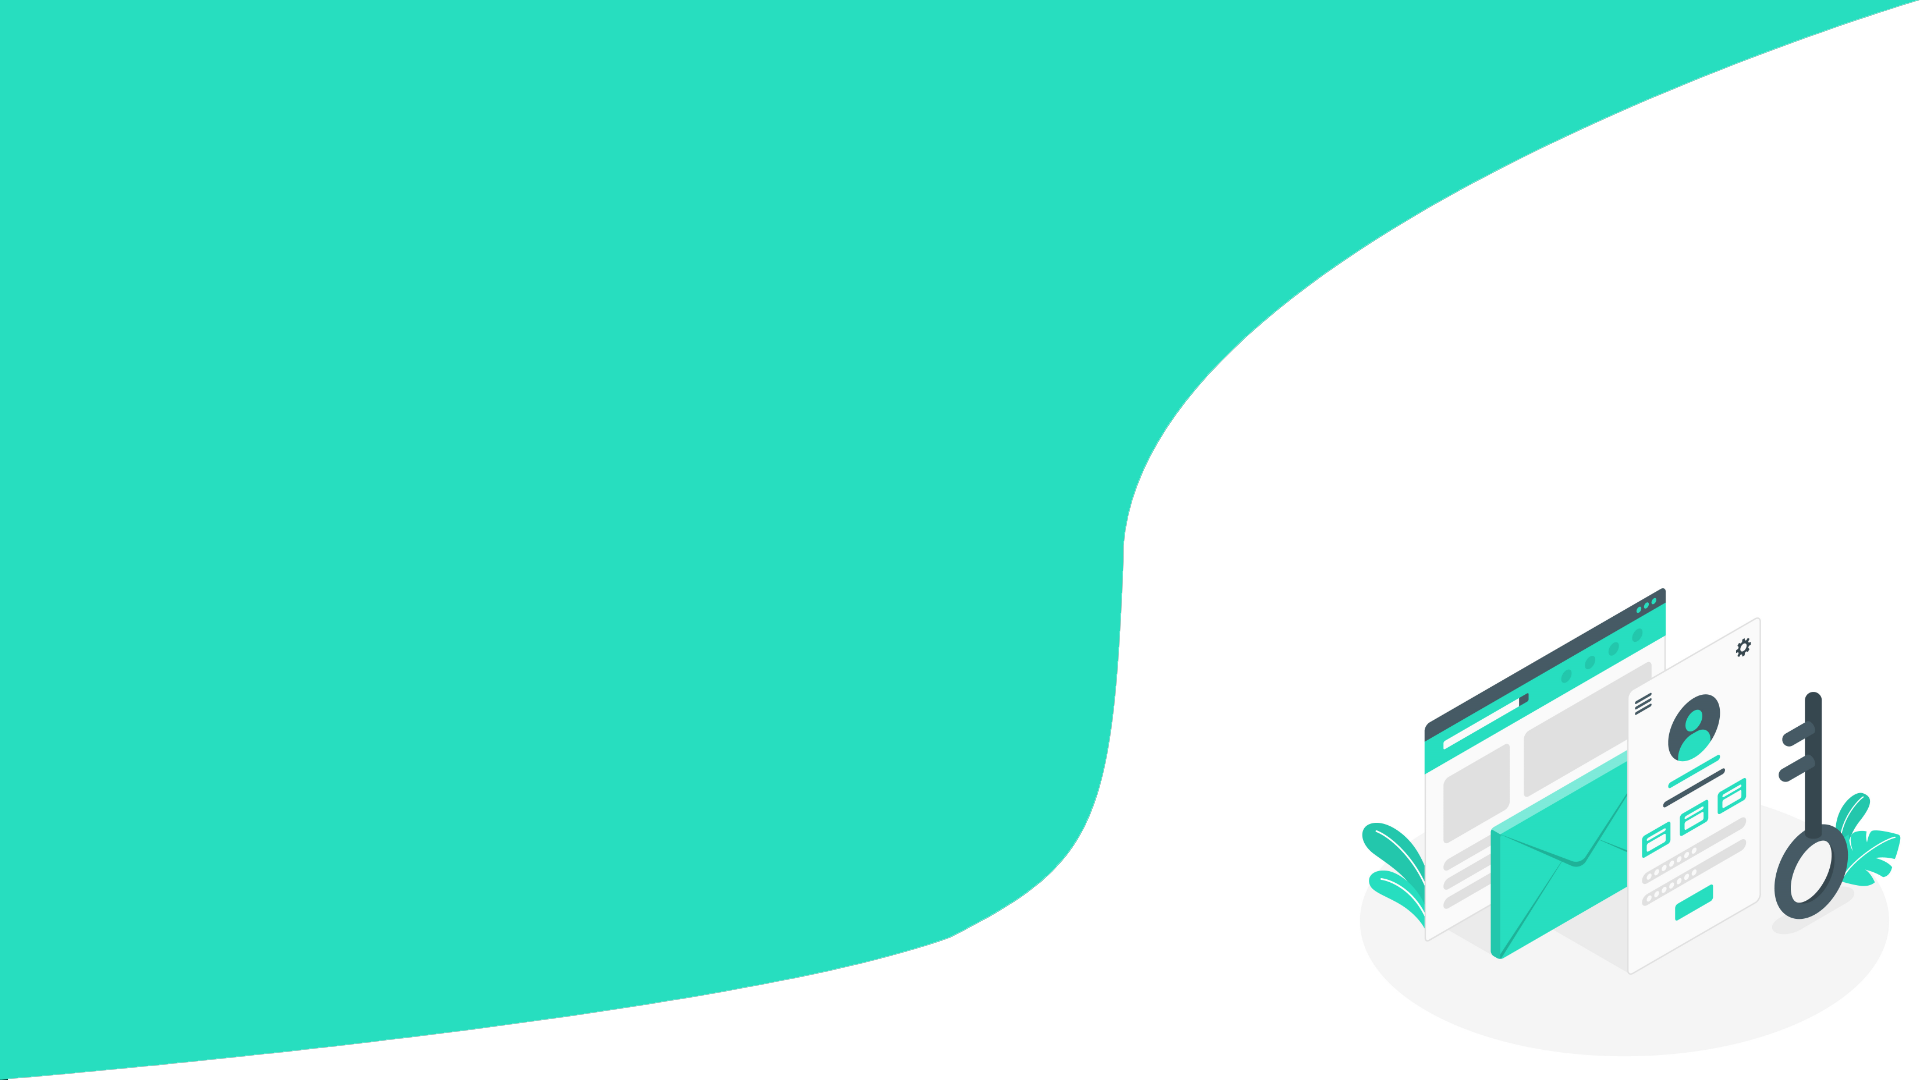
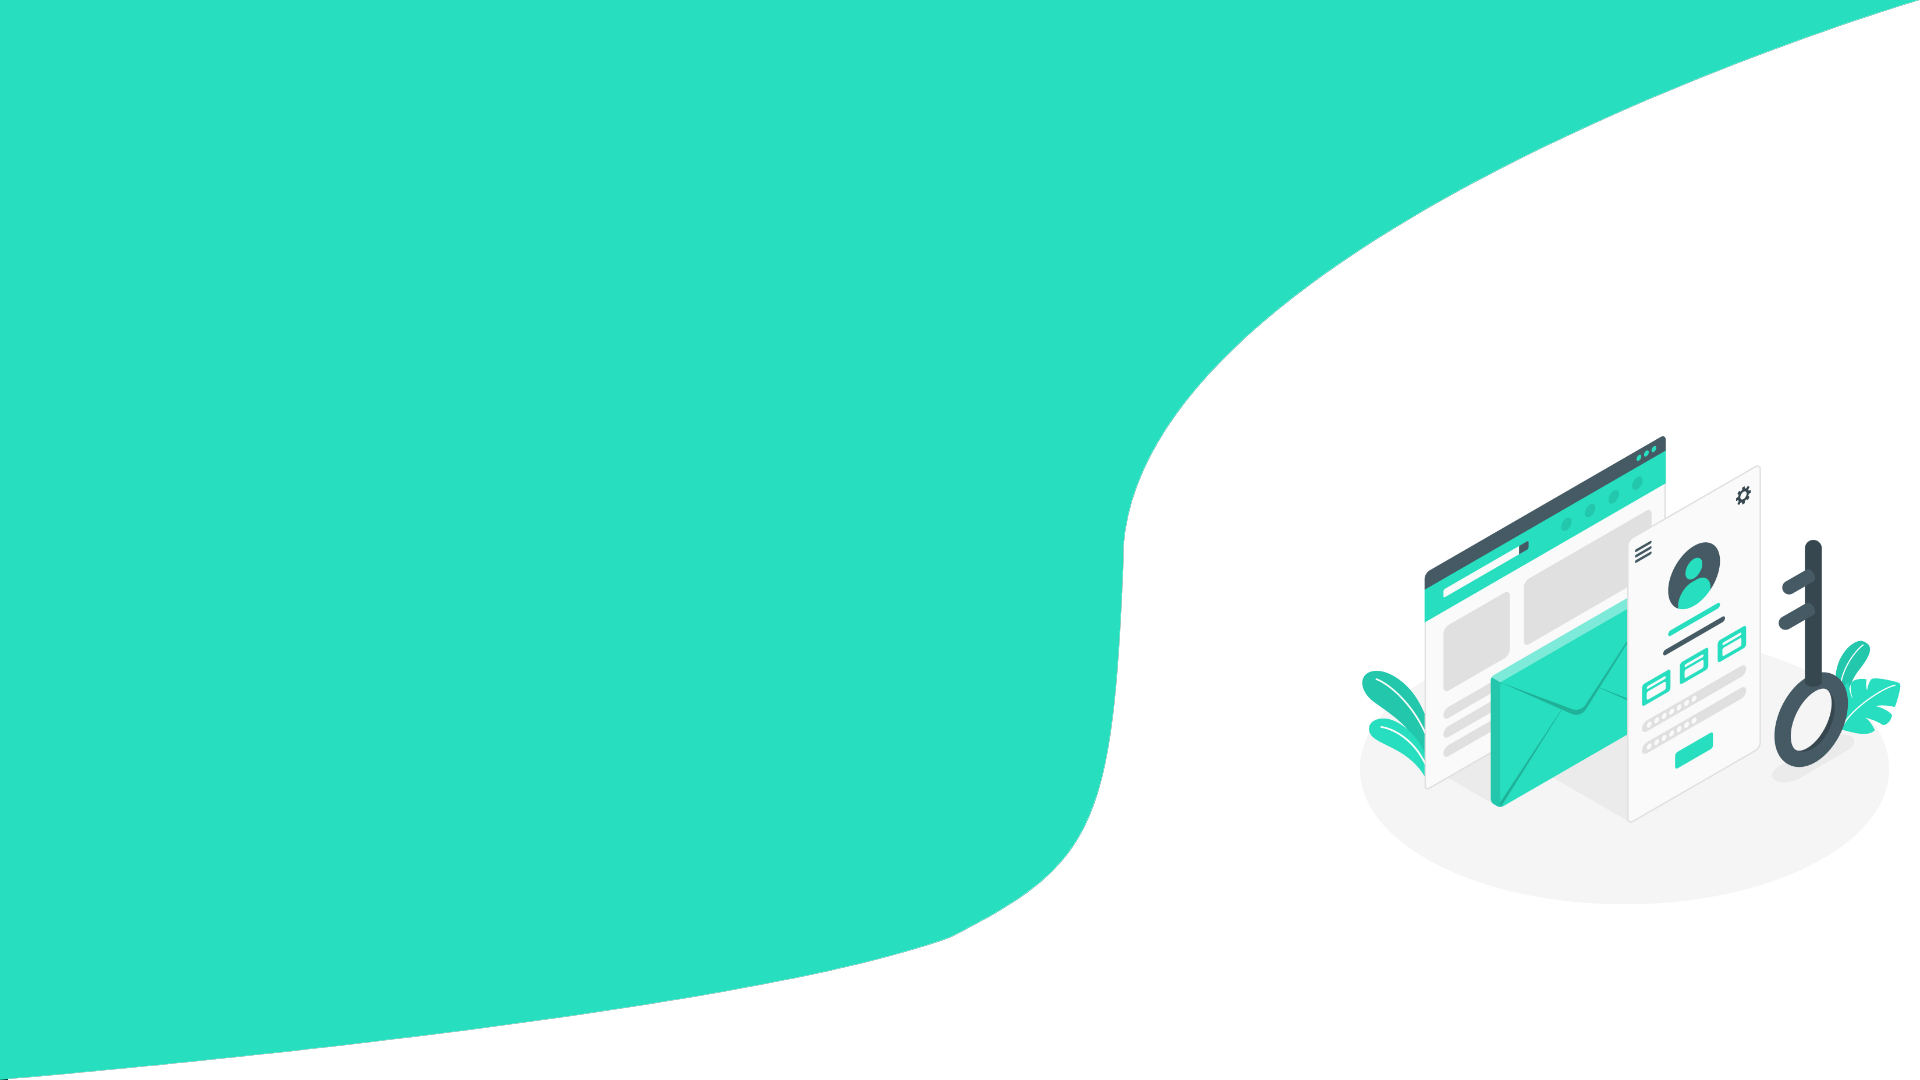
Finish HTML Singup

Changed region(s): [[0.6875, 0.3972, 1.0, 0.8861]]

diff --git a/signup.html b/signup.html
@@ -1,0 +1,37 @@
+<!DOCTYPE html>
+<html lang="en">
+
+<head>
+    <meta charset="UTF-8">
+    <meta http-equiv="X-UA-Compatible" content="IE=edge">
+    <meta name="viewport" content="width=device-width, initial-scale=1.0">
+    <link rel="stylesheet" href="style/signup.css">
+    <title>Sign Up</title>
+</head>
+
+<body>
+    <main>
+
+        <div class="center">
+            <h1>Sign Up</h1>
+            <p>create your account so that you can acess our platform</p>
+            <div class="formcontainer"> 
+
+            
+            <form action="./includes/traitement.php" method="post">
+                <input type="text" name="FName" placeholder="First Name" required>
+                <input type="text" name="lName" placeholder="last Name" required>
+                <input type="email" name="email" placeholder="Email Adress" required>
+                <label for="date">birth year</label>
+                <input type="date" name="birthday" id="" required>
+                <input type="password" name="password" placeholder="Password" required>
+                <input type="password" name="rpassword" placeholder="Password confirmation" required>
+                <input type="reset" value="reset">
+                <input type="submit" value="submit" name="signup_submit">
+            </form>
+        </div>
+        </div>
+
+</body>
+
+</html>

diff --git a/style/signup.css b/style/signup.css
@@ -1,0 +1,24 @@
+*{
+    margin: 0;
+    padding: 0;
+
+}
+
+body{
+background-image: url(../assets/images/signupbg.png);
+background-repeat: no-repeat;
+background-size: 100%;
+}
+
+.center {
+    height: 100vh;
+    display: flex;
+    flex-direction: column;
+    align-items: center;
+    justify-content: center;
+    justify-content: space-around;
+}
+
+.formcontainer{
+    display: inline-block;
+}
